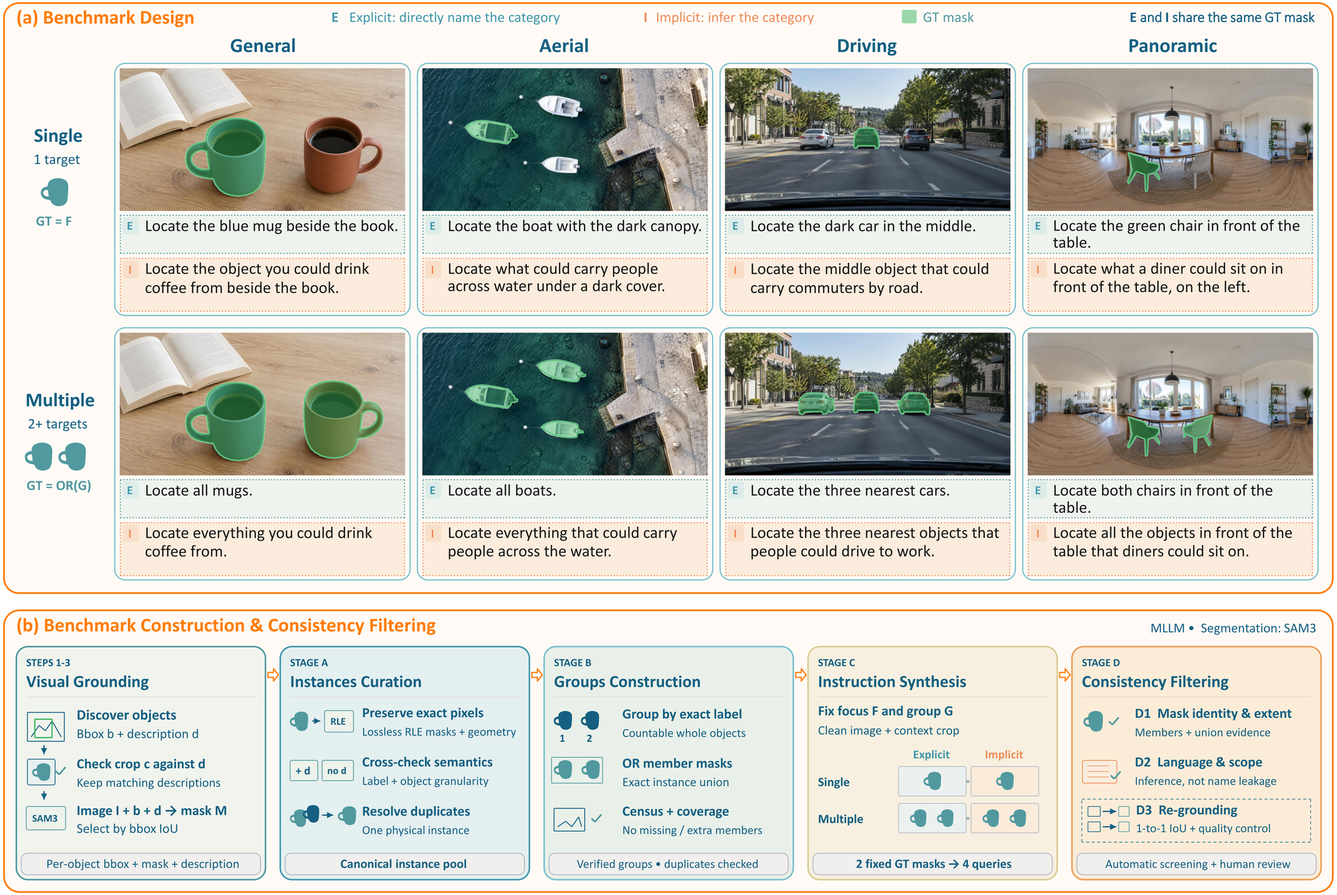
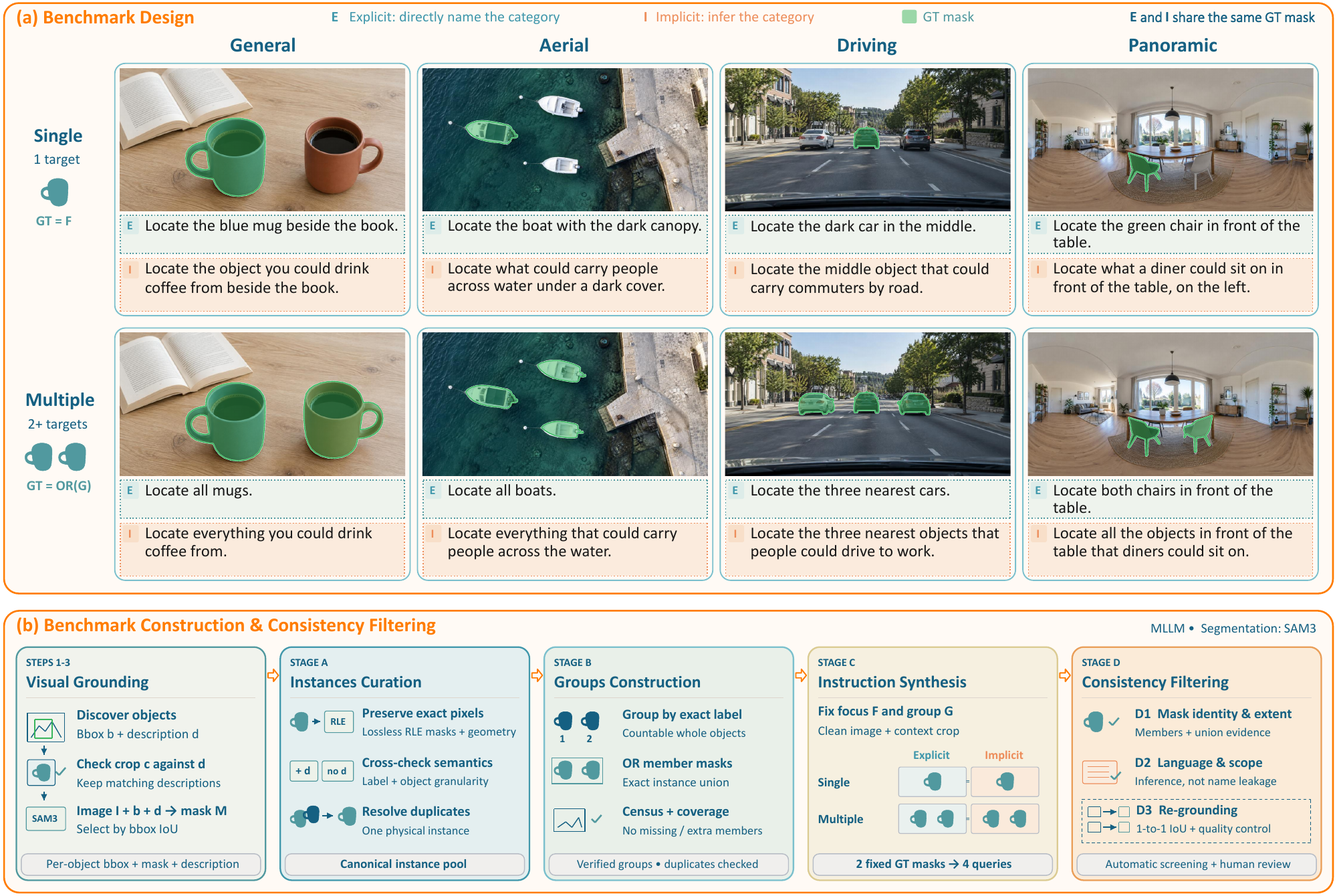
Update benchmark results and LensBench visuals

diff --git a/docs/index.html b/docs/index.html
@@ -200,7 +200,7 @@ a:focus-visible, button:focus-visible, summary:focus-visible { outline: 3px soli
 .figure-card + .figure-caption { padding-inline: 4px; }
 .enlarge { display: inline-block; margin-top: 10px; font: 600 12px var(--mono); color: var(--orange); }
 .enlarge:hover { text-decoration: underline; }
-.flow { list-style: none; margin: 28px 0 0; padding: 0; display: grid; grid-template-columns: repeat(3, 1fr); border: 2px solid var(--outline); border-radius: 22px; overflow: hidden; background: var(--white); }
+.flow { list-style: none; margin: 28px 0 0; padding: 0; display: grid; grid-template-columns: repeat(4, 1fr); border: 2px solid var(--outline); border-radius: 22px; overflow: hidden; background: var(--white); }
 .flow li { padding: 25px; border-left: 1px solid var(--line); }
 .flow li:first-child { border-left: 0; }
 .flow .num { font: 600 11px var(--mono); color: var(--orange); }
@@ -243,6 +243,7 @@ a:focus-visible, button:focus-visible, summary:focus-visible { outline: 3px soli
 .big-score b { display: block; font: 400 64px/1 var(--display); color: var(--orange); letter-spacing: -2px; font-variant-numeric: tabular-nums; }
 .big-score span { font: 600 10px var(--mono); letter-spacing: 1px; text-transform: uppercase; color: var(--muted); }
 .result-head > p { font-size: 15px; }
+.result-head.two { grid-template-columns: 1fr 1.2fr; }
 .result-body { display: grid; grid-template-columns: 1fr 1fr; gap: 22px; margin-top: 26px; }
 .panel-box { border: 1px solid var(--line); border-radius: 18px; padding: 20px; background: #fcfdfd; }
 .panel-box h4 { font-size: 17px; font-weight: 500; display: flex; gap: 10px; align-items: center; }
@@ -337,7 +338,7 @@ footer { border-top: 2px solid #1e34501a; padding-block: 48px 56px; }
   .filters, .tabs.domain-tabs { grid-template-columns: minmax(0, 1fr); }
   .filters .chip[data-filter="all"] { grid-row: auto; justify-self: start; }
   .result-card { padding: 20px; }
-  .result-head { grid-template-columns: 1fr; }
+  .result-head, .result-head.two { grid-template-columns: 1fr; }
   .big-score { text-align: left; }
 }
 @media (prefers-reduced-motion: reduce) {
@@ -398,7 +399,7 @@ footer { border-top: 2px solid #1e34501a; padding-block: 48px 56px; }
 
   <div class="metrics" aria-label="Key results">
     <div class="metric"><div class="metric-value">81.4</div><div class="metric-name">Referring Expression Segmentation</div><div class="metric-note">mean cIoU, 8 RefCOCO-family splits</div></div>
-    <div class="metric"><div class="metric-value">94.6</div><div class="metric-name">Referring Expression Comprehension</div><div class="metric-note">Pres@0.5, RefCOCO val</div></div>
+    <div class="metric"><div class="metric-value">94.6</div><div class="metric-name">Referring Expression Comprehension</div><div class="metric-note">Prec@0.5, RefCOCO val</div></div>
     <div class="metric"><div class="metric-value">68.0</div><div class="metric-name">ReasonSeg test</div><div class="metric-note">gIoU</div></div>
     <div class="metric"><div class="metric-value">+6.8</div><div class="metric-name">CountQA over backbone</div><div class="metric-note">50.6 vs. 43.8 for Qwen3.5-4B</div></div>
     <div class="metric"><div class="metric-value">4,800</div><div class="metric-name">LensBench instruction-level samples</div><div class="metric-note">1,200 paired units across 4 domains</div></div>
@@ -526,6 +527,11 @@ footer { border-top: 2px solid #1e34501a; padding-block: 48px 56px; }
         <h4>Lightweight decoder</h4>
         <p>Patch-wise compatibility scores between the latent and the grid are reassembled and upsampled into a mask.</p>
       </li>
+      <li>
+        <span class="num">04</span>
+        <h4>Thinking with visual latents</h4>
+        <p>Mask tokens placed inside the reasoning trace decode to masks for the regions it discusses. Grounded reasoning traces supervise these intermediate regions.</p>
+      </li>
     </ol>
     <div class="training">
       <div>
@@ -567,14 +573,27 @@ footer { border-top: 2px solid #1e34501a; padding-block: 48px 56px; }
       <p class="figure-caption">(a) After image and region screening, an MLLM generates question–answer pairs with multiple-choice or numeric answers. (b) Rule-based filters remove flawed questions, options are shuffled, and an independent checker verifies the answers.</p>
     </div>
     <div id="data-lens" role="tabpanel" hidden>
-      <figure class="figure-card"><img data-lazy="assets/figures/lensbench_data_pipeline.png" width="2000" height="1339" alt="LensBench design across four domains and its construction pipeline."></figure>
+      <figure class="figure-card"><img data-lazy="assets/figures/lensbench_data_pipeline.png" width="2000" height="1340" alt="LensBench design across four domains and its construction pipeline."></figure>
       <div class="facts">
         <div class="fact"><b>4</b><span>domains: General, Aerial, Driving, Panoramic</span></div>
         <div class="fact"><b>300</b><span>evaluation units per domain; 1,200 paired units in total</span></div>
         <div class="fact"><b>2 × 2</b><span>Single/Multiple targets × Explicit/Implicit instructions</span></div>
         <div class="fact"><b>4,800</b><span>instruction-level evaluation samples in total</span></div>
       </div>
-      <div class="actions"><a class="button" href="https://huggingface.co/datasets/SeerRay-Lab/LensBench">LensBench on Hugging Face ↗</a></div>
+      <p>LensBench contains 1,200 human-reviewed paired units and 4,800 instructions across general, aerial, driving, and panoramic imagery (300 units per domain). Each unit combines single/multiple targets with explicit/implicit wording. The two wordings share the same target mask; multiple targets use the union mask and its enclosing box. Targets and masks are fixed before instruction synthesis, followed by automated consistency checks and human review of each complete unit.</p>
+      <p>Xiaomi-Lens-0 leads mask cIoU in aerial (57.1), driving (68.6), and panoramic (62.3) imagery, and leads both metrics on explicit instructions. Implicit instructions remain challenging: cIoU drops from 71.4 to 54.7, while box Prec@0.5 drops from 85.0 to 70.0. The gap is largest for multiple targets in panoramic scenes, where cIoU falls from 71.8 to 48.9 and box Prec@0.5 from 81.3 to 48.7.</p>
+      <details class="scores"><summary>LensBench detailed results</summary><p class="note">Marginal results pool single and multiple targets. Each cell reports mask cIoU / box Prec@0.5 (%, higher is better). Bold marks best; underline marks second best.</p><div class="table-wrap"><table><thead><tr><th class="method" rowspan="2">Method</th><th colspan="2">Explicit</th><th colspan="2">Implicit</th><th colspan="2">General</th><th colspan="2">Aerial</th><th colspan="2">Driving</th><th colspan="2">Panoramic</th></tr><tr><th>cIoU</th><th>Prec@0.5</th><th>cIoU</th><th>Prec@0.5</th><th>cIoU</th><th>Prec@0.5</th><th>cIoU</th><th>Prec@0.5</th><th>cIoU</th><th>Prec@0.5</th><th>cIoU</th><th>Prec@0.5</th></tr></thead><tbody><tr><td class="method">GPT-5.6-Sol</td><td>63.8</td><td>73.2</td><td><u>61.2</u></td><td><u>70.0</u></td><td><u>68.4</u></td><td>67.9</td><td>42.2</td><td>58.5</td><td><u>68.4</u></td><td><b>81.8</b></td><td>57.1</td><td><u>78.3</u></td></tr>
+<tr><td class="method">Gemini-3.6-Flash</td><td>61.4</td><td><u>74.5</u></td><td>61.0</td><td><b>70.3</b></td><td>63.6</td><td>65.8</td><td><u>50.1</u></td><td><u>62.5</u></td><td>66.8</td><td><u>81.0</u></td><td><u>60.8</u></td><td><b>80.3</b></td></tr>
+<tr><td class="method">MiMo-V2.5</td><td>51.4</td><td>52.2</td><td>47.4</td><td>46.8</td><td>54.2</td><td>45.2</td><td>32.6</td><td>38.6</td><td>50.5</td><td>52.8</td><td>45.4</td><td>61.4</td></tr>
+<tr><td class="method">Seed-2.1-Pro</td><td>62.1</td><td>70.2</td><td>55.9</td><td>64.5</td><td>60.6</td><td>56.7</td><td><u>50.1</u></td><td>58.5</td><td>66.8</td><td>77.4</td><td>59.9</td><td>76.7</td></tr>
+<tr><td class="method">Qwen3.8-Max</td><td><u>67.6</u></td><td>69.2</td><td><b>64.5</b></td><td>63.8</td><td><b>74.2</b></td><td><b>79.7</b></td><td>33.5</td><td><u>62.5</u></td><td>58.0</td><td>57.7</td><td><u>60.8</u></td><td>66.2</td></tr>
+<tr><td class="method">Kimi-K3</td><td>29.4</td><td>39.1</td><td>28.3</td><td>33.0</td><td>38.5</td><td>26.1</td><td>13.8</td><td>44.9</td><td>47.2</td><td>31.1</td><td>13.4</td><td>42.1</td></tr>
+<tr><td class="method">GLM-5.3-Flash</td><td>44.3</td><td>37.5</td><td>43.5</td><td>33.3</td><td>48.9</td><td>26.3</td><td>28.0</td><td>33.4</td><td>51.6</td><td>47.5</td><td>30.6</td><td>34.4</td></tr>
+<tr><td class="method">DeepSeek-V4-Flash-Vision-Exp</td><td>41.8</td><td>30.7</td><td>41.1</td><td>27.3</td><td>46.1</td><td>28.1</td><td>25.9</td><td>28.9</td><td>43.9</td><td>27.9</td><td>32.8</td><td>31.0</td></tr>
+<tr><td class="method">SAM 3</td><td>17.3</td><td>38.1</td><td>15.4</td><td>19.5</td><td>23.8</td><td>24.8</td><td>4.3</td><td>27.3</td><td>27.7</td><td>35.1</td><td>11.1</td><td>27.9</td></tr>
+<tr class="ours"><td class="method">Xiaomi-Lens-0<sub>4B</sub></td><td><b>71.4</b></td><td><b>85.0</b></td><td>54.7</td><td><u>70.0</u></td><td>63.9</td><td><u>79.1</u></td><td><b>57.1</b></td><td><b>79.6</b></td><td><b>68.6</b></td><td>79.4</td><td><b>62.3</b></td><td>72.1</td></tr></tbody></table></div></details>
+      <figure class="figure-card"><a href="assets/figures/lensbench_evaluation.png"><img data-lazy="assets/figures/lensbench_evaluation.png" width="2600" height="1335" alt="LensBench qualitative comparisons across four visual domains; red overlays show predicted and ground-truth regions."></a></figure><p class="figure-caption">Single and multiple targets under explicit and implicit instructions across four domains. Click the image for the full-resolution comparison.</p>
+            <div class="actions"><a class="button" href="https://huggingface.co/datasets/SeerRay-Lab/LensBench">LensBench on Hugging Face ↗</a></div>
     </div>
   </div>
 </section>
@@ -599,11 +618,11 @@ footer { border-top: 2px solid #1e34501a; padding-block: 48px 56px; }
     <div class="result-card" id="result-rec" role="tabpanel">
       <div class="result-head">
         <div><p class="eyebrow">01 · Referring Expression Comprehension</p><h3>RefCOCO / RefCOCO+ / RefCOCOg</h3></div>
-        <div class="big-score"><b>92.9</b><span>Xiaomi-Lens-0 · mean Pres@0.5 · 8 splits</span></div>
-        <p>Ranks first on seven of eight RefCOCO, RefCOCO+, and RefCOCOg splits.</p>
+        <div class="big-score"><b>92.9</b><span>Xiaomi-Lens-0 · mean Prec@0.5 · 8 splits</span></div>
+        <p>Ranks first on seven of eight RefCOCO, RefCOCO+, and RefCOCOg splits, 5.6 points above its Qwen3.5-4B backbone on average.</p>
       </div>
       <div class="result-body">
-        <div class="panel-box"><h4><span class="n">01</span>Score comparison</h4><p class="sub">mean Pres@0.5 · 8 splits · top models</p><ol class="bars"><li class="ours"><span class="name">Xiaomi-Lens-0<sub>4B</sub></span><span class="track"><span class="fill" style="width:100.0%"></span></span><span class="val">92.9</span></li><li><span class="name">Youtu-VL<sub>4B</sub></span><span class="track"><span class="fill" style="width:87.1%"></span></span><span class="val">91.8</span></li><li><span class="name">Florence-2</span><span class="track"><span class="fill" style="width:78.9%"></span></span><span class="val">91.1</span></li><li><span class="name">Qwen3-VL-Seg<sub>4B</sub></span><span class="track"><span class="fill" style="width:62.4%"></span></span><span class="val">89.7</span></li><li><span class="name">InternVL-3.5<sub>4B</sub></span><span class="track"><span class="fill" style="width:58.9%"></span></span><span class="val">89.4</span></li><li><span class="name">MLLMSeg<sub>InternVL2.5-4B</sub></span><span class="track"><span class="fill" style="width:44.8%"></span></span><span class="val">88.2</span></li></ol></div>
+        <div class="panel-box"><h4><span class="n">01</span>Score comparison</h4><p class="sub">mean Prec@0.5 · 8 splits · top models</p><ol class="bars"><li class="ours"><span class="name">Xiaomi-Lens-0<sub>4B</sub></span><span class="track"><span class="fill" style="width:100.0%"></span></span><span class="val">92.9</span></li><li><span class="name">Youtu-VL<sub>4B</sub></span><span class="track"><span class="fill" style="width:87.1%"></span></span><span class="val">91.8</span></li><li><span class="name">Florence-2</span><span class="track"><span class="fill" style="width:78.9%"></span></span><span class="val">91.1</span></li><li><span class="name">Qwen3-VL-Seg<sub>4B</sub></span><span class="track"><span class="fill" style="width:62.4%"></span></span><span class="val">89.7</span></li><li><span class="name">InternVL-3.5<sub>4B</sub></span><span class="track"><span class="fill" style="width:58.9%"></span></span><span class="val">89.4</span></li><li><span class="name">MLLMSeg<sub>InternVL2.5-4B</sub></span><span class="track"><span class="fill" style="width:44.8%"></span></span><span class="val">88.2</span></li></ol></div>
         <div class="panel-box"><h4><span class="n">02</span>Xiaomi-Lens-0 by split</h4><p class="sub">Orange marks a best score in the table</p><div class="split-grid"><div><span>RefCOCO Val</span><b class="best">94.6</b></div><div><span>RefCOCO TestA</span><b class="best">96.2</b></div><div><span>RefCOCO TestB</span><b class="best">92.3</b></div><div><span>RefCOCO+ Val</span><b class="best">92.1</b></div><div><span>RefCOCO+ TestA</span><b class="best">94.9</b></div><div><span>RefCOCO+ TestB</span><b class="best">88.5</b></div><div><span>RefCOCOg Val</span><b class="best">92.5</b></div><div><span>RefCOCOg Test</span><b class="">92.4</b></div></div></div>
       </div>
       <details class="scores"><summary>View detailed scores</summary>
@@ -707,12 +726,12 @@ footer { border-top: 2px solid #1e34501a; padding-block: 48px 56px; }
     <div class="result-card" id="result-multi" role="tabpanel" hidden>
       <div class="result-head">
         <div><p class="eyebrow">03 · Multi-Instance Grounding</p><h3>COCO 2017</h3></div>
-        <div class="big-score"><b>60.6</b><span>Xiaomi-Lens-0 · F1 · mean over IoU 0.50–0.95</span></div>
-        <p>Ties GroundingDINO for the highest mIoU F1 among the listed models.</p>
+        <div class="big-score"><b>63.9</b><span>Xiaomi-Lens-0 · F1 · mean over IoU 0.50–0.95</span></div>
+        <p>Highest mIoU F1 among the compared models, 0.9 points above GroundingPI.</p>
       </div>
       <div class="result-body">
-        <div class="panel-box"><h4><span class="n">01</span>Score comparison</h4><p class="sub">F1 · mean over IoU 0.50–0.95 · top models</p><ol class="bars"><li><span class="name">GroundingDINO</span><span class="track"><span class="fill" style="width:100.0%"></span></span><span class="val">60.6</span></li><li class="ours"><span class="name">Xiaomi-Lens-0<sub>4B</sub></span><span class="track"><span class="fill" style="width:100.0%"></span></span><span class="val">60.6</span></li><li><span class="name">LocateAnything Slow NTP</span><span class="track"><span class="fill" style="width:78.6%"></span></span><span class="val">59.4</span></li><li><span class="name">LocateAnything Hybrid</span><span class="track"><span class="fill" style="width:73.2%"></span></span><span class="val">59.1</span></li><li><span class="name">SenseNova-Vision</span><span class="track"><span class="fill" style="width:44.6%"></span></span><span class="val">57.5</span></li></ol></div>
-        <div class="panel-box"><h4><span class="n">02</span>Xiaomi-Lens-0 by split</h4><p class="sub">Orange marks a best score in the table</p><div class="split-grid"><div><span>IoU 0.50 Recall</span><b class="">77.5</b></div><div><span>IoU 0.50 Precision</span><b class="">79.3</b></div><div><span>IoU 0.50 F1</span><b class="">78.4</b></div><div><span>IoU 0.95 Recall</span><b class="">23.3</b></div><div><span>IoU 0.95 Precision</span><b class="">23.7</b></div><div><span>IoU 0.95 F1</span><b class="">23.5</b></div><div><span>mIoU Recall</span><b class="">60.0</b></div><div><span>mIoU Precision</span><b class="">61.2</b></div><div><span>mIoU F1</span><b class="">60.6</b></div></div></div>
+        <div class="panel-box"><h4><span class="n">01</span>Score comparison</h4><p class="sub">F1 · mean over IoU 0.50–0.95 · top models</p><ol class="bars"><li class="ours"><span class="name">Xiaomi-Lens-0<sub>4B</sub></span><span class="track"><span class="fill" style="width:100.0%"></span></span><span class="val">63.9</span></li><li><span class="name">GroundingPI</span><span class="track"><span class="fill" style="width:98.6%"></span></span><span class="val">63.0</span></li><li><span class="name">GroundingDINO</span><span class="track"><span class="fill" style="width:94.8%"></span></span><span class="val">60.6</span></li><li><span class="name">LocateAnything Slow NTP</span><span class="track"><span class="fill" style="width:93.0%"></span></span><span class="val">59.4</span></li><li><span class="name">LocateAnything Hybrid</span><span class="track"><span class="fill" style="width:92.5%"></span></span><span class="val">59.1</span></li></ol></div>
+        <div class="panel-box"><h4><span class="n">02</span>Xiaomi-Lens-0 by split</h4><p class="sub">Orange marks a best score in the table</p><div class="split-grid"><div><span>IoU 0.50 Recall</span><b>79.6</b></div><div><span>IoU 0.50 Precision</span><b>81.1</b></div><div><span>IoU 0.50 F1</span><b>80.4</b></div><div><span>IoU 0.95 Recall</span><b class="best">27.2</b></div><div><span>IoU 0.95 Precision</span><b>27.7</b></div><div><span>IoU 0.95 F1</span><b>27.4</b></div><div><span>mIoU Recall</span><b class="best">63.4</b></div><div><span>mIoU Precision</span><b>64.5</b></div><div><span>mIoU F1</span><b class="best">63.9</b></div></div></div>
       </div>
       <details class="scores"><summary>View detailed scores</summary>
         <p class="note"><b>Bold</b> marks the best score and <u>underline</u> the second best.</p>
@@ -726,24 +745,23 @@ footer { border-top: 2px solid #1e34501a; padding-block: 48px 56px; }
 </tr>
 <tr><th>Recall</th><th>Precision</th><th>F1</th><th>Recall</th><th>Precision</th><th>F1</th><th>Recall</th><th>Precision</th><th>F1</th></tr>
 </thead><tbody>
-<tr><td class="method">GroundingDINO</td><td class="second">79.6</td><td class="best">83.2</td><td class="best">81.4</td><td>24.7</td><td>28.1</td><td>26.3</td><td class="second">61.1</td><td>63.7</td><td class="best">60.6</td></tr>
+<tr><td class="method">GroundingDINO</td><td><u>79.6</u></td><td><b>83.2</b></td><td><b>81.4</b></td><td>24.7</td><td>28.1</td><td>26.3</td><td>61.1</td><td>63.7</td><td>60.6</td></tr>
 <tr><td class="method">Rex-Omni</td><td>69.9</td><td>81.0</td><td>75.0</td><td>17.9</td><td>21.7</td><td>19.7</td><td>53.9</td><td>59.4</td><td>56.3</td></tr>
 <tr><td class="method">LocateAnything Fast</td><td>66.2</td><td>73.3</td><td>69.6</td><td>24.7</td><td>26.9</td><td>25.8</td><td>50.9</td><td>59.3</td><td>53.1</td></tr>
-<tr><td class="method">LocateAnything Hybrid</td><td>74.7</td><td>80.8</td><td>77.6</td><td class="second">26.6</td><td class="second">28.7</td><td class="second">27.6</td><td>52.4</td><td class="best">65.2</td><td>59.1</td></tr>
-<tr><td class="method">LocateAnything Slow NTP</td><td>75.0</td><td class="second">81.9</td><td>78.3</td><td>25.0</td><td>27.2</td><td>26.0</td><td>54.7</td><td class="second">65.1</td><td class="second">59.4</td></tr>
+<tr><td class="method">LocateAnything Hybrid</td><td>74.7</td><td>80.8</td><td>77.6</td><td><u>26.6</u></td><td><u>28.7</u></td><td><u>27.6</u></td><td>52.4</td><td><b>65.2</b></td><td>59.1</td></tr>
+<tr><td class="method">LocateAnything Slow NTP</td><td>75.0</td><td><u>81.9</u></td><td>78.3</td><td>25.0</td><td>27.2</td><td>26.0</td><td>54.7</td><td><u>65.1</u></td><td>59.4</td></tr>
 <tr><td class="method">Qwen2.5-VL<sub>7B</sub></td><td>57.2</td><td>62.9</td><td>59.9</td><td>12.2</td><td>13.2</td><td>12.7</td><td>44.7</td><td>49.1</td><td>46.3</td></tr>
 <tr><td class="method">Qwen3-VL<sub>2B</sub></td><td>63.5</td><td>67.1</td><td>65.3</td><td>21.8</td><td>22.6</td><td>22.2</td><td>42.6</td><td>44.9</td><td>42.5</td></tr>
 <tr><td class="method">Qwen3-VL<sub>4B</sub></td><td>66.1</td><td>70.6</td><td>68.3</td><td>23.7</td><td>24.9</td><td>24.3</td><td>44.9</td><td>47.8</td><td>46.5</td></tr>
 <tr><td class="method">Qwen3-VL<sub>8B</sub></td><td>65.7</td><td>69.5</td><td>67.5</td><td>23.9</td><td>25.1</td><td>24.5</td><td>44.8</td><td>47.3</td><td>46.3</td></tr>
-<tr><td class="method">Qwen3.5<sub>4B</sub></td><td>65.9</td><td>67.8</td><td>66.8</td><td>22.9</td><td>23.7</td><td>23.3</td><td>48.4</td><td>45.7</td><td>47.6</td></tr>
-<tr><td class="method">Qwen3.5<sub>9B</sub></td><td>73.2</td><td>68.1</td><td>70.6</td><td>23.8</td><td>24.5</td><td>24.2</td><td>58.5</td><td>46.3</td><td>52.0</td></tr>
 <tr><td class="method">RynnBrain1.1</td><td>36.5</td><td>60.5</td><td>45.5</td><td>11.6</td><td>16.5</td><td>13.6</td><td>28.7</td><td>45.3</td><td>35.2</td></tr>
-<tr><td class="method">SenseNova-Vision</td><td>79.1</td><td>80.5</td><td>79.8</td><td class="best">27.2</td><td class="best">30.2</td><td class="best">28.6</td><td class="best">63.1</td><td>55.4</td><td>57.5</td></tr>
+<tr><td class="method">SenseNova-Vision</td><td>79.1</td><td>80.5</td><td>79.8</td><td><b>27.2</b></td><td><b>30.2</b></td><td><b>28.6</b></td><td>63.1</td><td>55.4</td><td>57.5</td></tr>
+<tr><td class="method">GroundingPI</td><td><b>81.4</b></td><td>80.9</td><td><u>81.2</u></td><td>22.9</td><td>22.8</td><td>22.8</td><td><u>63.2</u></td><td>62.8</td><td><u>63.0</u></td></tr>
 <tr><td class="method">MiMo-VL-SFT<sub>7B</sub></td><td>65.5</td><td>72.2</td><td>68.7</td><td>10.0</td><td>11.1</td><td>10.5</td><td>45.7</td><td>50.5</td><td>48.0</td></tr>
 <tr><td class="method">MiMo-VL-RL<sub>7B</sub></td><td>65.6</td><td>74.5</td><td>69.8</td><td>9.2</td><td>10.3</td><td>9.7</td><td>44.5</td><td>50.2</td><td>47.2</td></tr>
 <tr><td class="method">BAGEL</td><td>65.6</td><td>75.2</td><td>70.1</td><td>11.0</td><td>13.0</td><td>11.9</td><td>46.3</td><td>47.2</td><td>46.0</td></tr>
 <tr><td class="method">RynnBrain</td><td>21.3</td><td>49.9</td><td>29.8</td><td>4.9</td><td>10.9</td><td>6.7</td><td>15.5</td><td>35.4</td><td>21.5</td></tr>
-<tr class="ours"><td class="method">Xiaomi-Lens-0<sub>4B</sub></td><td>77.5</td><td>79.3</td><td>78.4</td><td>23.3</td><td>23.7</td><td>23.5</td><td>60.0</td><td>61.2</td><td class="best">60.6</td></tr>
+<tr class="ours"><td class="method">Xiaomi-Lens-0<sub>4B</sub></td><td><u>79.6</u></td><td>81.1</td><td>80.4</td><td><b>27.2</b></td><td>27.7</td><td>27.4</td><td><b>63.4</b></td><td>64.5</td><td><b>63.9</b></td></tr>
 </tbody></table></div>
 
       </details>
@@ -854,9 +872,27 @@ footer { border-top: 2px solid #1e34501a; padding-block: 48px 56px; }
       </details>
     </div>
     <figure class="figure-card" style="margin-top:28px">
-      <img src="assets/figures/radar_comparison.png" width="2000" height="492" loading="lazy" alt="Radar charts comparing Xiaomi-Lens-0 with baselines on box grounding, referring segmentation, and perception.">
+      <img src="assets/figures/radar_comparison.png" width="3000" height="570" loading="lazy" alt="Radar charts comparing Xiaomi-Lens-0 with baselines on box grounding, referring segmentation, perception, and LensBench.">
     </figure>
-    <p class="figure-caption">At a glance: box grounding (left), referring segmentation (middle), and perception (right).</p>
+    <p class="figure-caption">At a glance, from left to right: box grounding F1, referring segmentation cIoU, fine-grained perception accuracy, and LensBench cIoU.</p>
+    <div class="result-card" id="ablation" style="margin-top:28px">
+      <div class="result-head two">
+        <div><p class="eyebrow">Ablations</p><h3>What mask supervision and grounded reasoning add</h3></div>
+        <p>We ablate mask supervision and grounded reasoning data, with the original backbone as a reference. Scores are validation-set Prec@0.5 for REC, cIoU for RES, and answer accuracy for perception.</p>
+      </div>
+      <div class="result-body" style="grid-template-columns:minmax(0,1fr)">
+        <div class="panel-box"><h4><span class="n">01</span>Mask supervision</h4><p class="sub">BBox-only disables the mask loss</p><div class="table-wrap"><table><thead><tr><th class="method">Variant</th><th>RefCOCO</th><th>RefCOCO+</th><th>RefCOCOg</th><th>MME-RW-en</th><th>MME-RW-cn</th><th>CV-B</th></tr></thead><tbody>
+<tr><td class="method">Qwen3.5<sub>4B</sub></td><td>90.4</td><td>84.8</td><td>88.0</td><td>66.5</td><td>60.3</td><td>85.4</td></tr>
+<tr><td class="method">BBox-only</td><td>93.5</td><td>89.7</td><td>90.2</td><td>68.8</td><td>66.1</td><td>87.9</td></tr>
+<tr class="ours"><td class="method">BBox + Mask</td><td><b>94.6</b></td><td><b>92.1</b></td><td><b>92.5</b></td><td><b>69.7</b></td><td><b>67.5</b></td><td><b>88.1</b></td></tr>
+</tbody></table></div><p class="note">Adding the mask loss raises all six scores. The REC gain is largest on RefCOCO+ (+2.4), where location words are excluded and appearance must separate the target from its neighbors.</p></div>
+        <div class="panel-box"><h4><span class="n">02</span>Grounded reasoning traces</h4><p class="sub">Grounding-only omits the reasoning data</p><div class="table-wrap"><table><thead><tr><th class="method">Variant</th><th>REC<br>RefCOCO</th><th>REC<br>RefCOCO+</th><th>REC<br>RefCOCOg</th><th>RES<br>RefCOCO</th><th>RES<br>RefCOCO+</th><th>RES<br>RefCOCOg</th></tr></thead><tbody>
+<tr><td class="method">Qwen3.5<sub>4B</sub></td><td>90.4</td><td>84.8</td><td>88.0</td><td>—</td><td>—</td><td>—</td></tr>
+<tr><td class="method">Grounding-only</td><td>94.5</td><td>91.5</td><td>92.0</td><td>82.7</td><td>79.1</td><td>80.6</td></tr>
+<tr class="ours"><td class="method">+ Reasoning</td><td><b>94.6</b></td><td><b>92.1</b></td><td><b>92.5</b></td><td><b>83.4</b></td><td><b>79.9</b></td><td><b>81.1</b></td></tr>
+</tbody></table></div><p class="note">Grounding data drive most of the referring gain. Supervising intermediate regions in the reasoning trace adds 0.5–0.8 cIoU on every RES split, mainly sharpening final masks.</p></div>
+      </div>
+    </div>
   </div>
 </section>
 
@@ -896,7 +932,6 @@ footer { border-top: 2px solid #1e34501a; padding-block: 48px 56px; }
       <span><a href="https://github.com/SeerRay-Lab/Xiaomi-Lens-0">Code</a> · <a href="https://huggingface.co/SeerRay-Lab/Xiaomi-Lens-0">Model weights</a> · <a href="https://huggingface.co/datasets/SeerRay-Lab/LensBench">LensBench</a> · Built on <a href="https://github.com/QwenLM">Qwen3.5</a>.</span>
     </div>
   </div>
-  <p>Fonts and demonstration media retain their respective licenses. <a href="https://github.com/SeerRay-Lab/Xiaomi-Lens-0/blob/main/THIRD_PARTY_NOTICES.md">Third-party notices</a>.</p>
 </footer>
 
 <script>

diff --git a/README.md b/README.md
@@ -12,7 +12,7 @@
 <p>English | <a href="README_CN.md">简体中文</a></p>
 </div>
 
-Xiaomi-Lens-0 is a 4B multimodal large language model that learns from pixel-level supervision through a shared visual backbone. Starting from Qwen3.5-4B, it decodes each generated `<|mask|>` token into a mask with a lightweight decoder, so the same model that answers in text can point at the regions it refers to, in a final answer or in the middle of its reasoning.
+Xiaomi-Lens-0 is a 4B multimodal large language model that learns from pixel-level supervision through a shared visual backbone. Starting from Qwen3.5-4B, it decodes each generated `<|mask|>` token into a mask with a lightweight decoder, so the same model that answers in text can point at the regions it refers to, in a final answer or in the middle of its reasoning. It improves referring comprehension over Qwen3.5-4B by 5.6 points on average across eight RefCOCO-family splits and improves scores on all eight fine-grained perception benchmarks.
 
 <p align="center"><a href="https://seerray-lab.github.io/Xiaomi-Lens-0/#video"><img src="docs/assets/video/overview_thumb.jpg" width="100%" alt="Xiaomi-Lens-0 overview video: play on the project page"></a></p>
 
@@ -28,9 +28,9 @@ Xiaomi-Lens-0 is a 4B multimodal large language model that learns from pixel-lev
 
 ## ✨ What it does
 
-1. **Referring Expression Comprehension**: finds the object a phrase describes and returns its bounding box. First on seven of eight RefCOCO, RefCOCO+, and RefCOCOg splits.
+1. **Referring Expression Comprehension**: finds the object a phrase describes and returns its bounding box. First on seven of eight RefCOCO, RefCOCO+, and RefCOCOg splits, 5.6 points above its Qwen3.5-4B backbone on average.
 2. **Referring Expression Segmentation**: returns a pixel mask for the referred object. 81.4% mean cIoU across the eight splits, leading the compared models on every split.
-3. **Multi-Instance Grounding**: lists every instance of a category, each with its own box and mask. 60.6 mean F1 on COCO 2017, tied with GroundingDINO for the highest listed score.
+3. **Multi-Instance Grounding**: lists every instance of a category, each with its own box and mask. 63.9 mean F1 on COCO 2017, highest among the compared models and 0.9 points above GroundingPI.
 4. **Reasoning Segmentation**: resolves functional and implicit requests after a short reasoning trace. Best on all four ReasonSeg scores.
 5. **Embodied Referring**: picks the object a person asks to be handed in cluttered scenes. Best on all four RoboRefIt scores.
 6. **Fine-Grained Perception**: thinks with visual latents, grounding each region it refers to while counting or answering high-resolution questions. Improves over its Qwen3.5-4B backbone on all eight perception benchmarks, including +6.8 points on CountQA.
@@ -40,6 +40,8 @@ We also release **[LensBench](https://huggingface.co/datasets/SeerRay-Lab/LensBe
 ## 🧠 Method
 
 Each generated `<|mask|>` token has a contextual state, or visual latent, that represents a target region given the image, instruction, and preceding response. A lightweight decoder combines this state with a single feature grid from the vision encoder before spatial merging to predict a mask. The model needs no separate segmentation encoder or multi-scale feature fusion. Joint language and mask training supervises the shared representation used for both spatial predictions and textual answers.
+
+The same decoder supports **thinking with visual latents**: `<|mask|>` tokens placed inside the reasoning trace decode to masks for the regions the trace discusses, such as each instance being counted. Grounded reasoning traces supervise these intermediate regions. Mask decoding is an output branch, so no crops or region features are fed back to the language model.
 
 <p align="center"><img src="docs/assets/figures/architecture.png" width="100%" alt="Xiaomi-Lens-0 architecture"></p>
 
@@ -66,7 +68,7 @@ All scores are percentages; higher is better. **Bold** marks the best score and 
 
 <p align="center"><img src="docs/assets/figures/radar_comparison.png" width="100%" alt="Radar comparison"></p>
 
-### 1. Referring Expression Comprehension (Pres@0.5)
+### 1. Referring Expression Comprehension (Prec@0.5)
 
 | Method | RefCOCO<br>Val | RefCOCO<br>TestA | RefCOCO<br>TestB | RefCOCO+<br>Val | RefCOCO+<br>TestA | RefCOCO+<br>TestB | RefCOCOg<br>Val | RefCOCOg<br>Test |
 |:--|:-:|:-:|:-:|:-:|:-:|:-:|:-:|:-:|
@@ -110,24 +112,23 @@ Recall, precision, and F1 at IoU 0.50 and 0.95; the mIoU group averages each met
 
 | Method | IoU 0.50<br>Recall | IoU 0.50<br>Precision | IoU 0.50<br>F1 | IoU 0.95<br>Recall | IoU 0.95<br>Precision | IoU 0.95<br>F1 | mIoU<br>Recall | mIoU<br>Precision | mIoU<br>F1 |
 |:--|:-:|:-:|:-:|:-:|:-:|:-:|:-:|:-:|:-:|
-| GroundingDINO | <u>79.6</u> | **83.2** | **81.4** | 24.7 | 28.1 | 26.3 | <u>61.1</u> | 63.7 | **60.6** |
+| GroundingDINO | <u>79.6</u> | **83.2** | **81.4** | 24.7 | 28.1 | 26.3 | 61.1 | 63.7 | 60.6 |
 | Rex-Omni | 69.9 | 81.0 | 75.0 | 17.9 | 21.7 | 19.7 | 53.9 | 59.4 | 56.3 |
 | LocateAnything Fast | 66.2 | 73.3 | 69.6 | 24.7 | 26.9 | 25.8 | 50.9 | 59.3 | 53.1 |
 | LocateAnything Hybrid | 74.7 | 80.8 | 77.6 | <u>26.6</u> | <u>28.7</u> | <u>27.6</u> | 52.4 | **65.2** | 59.1 |
-| LocateAnything Slow NTP | 75.0 | <u>81.9</u> | 78.3 | 25.0 | 27.2 | 26.0 | 54.7 | <u>65.1</u> | <u>59.4</u> |
+| LocateAnything Slow NTP | 75.0 | <u>81.9</u> | 78.3 | 25.0 | 27.2 | 26.0 | 54.7 | <u>65.1</u> | 59.4 |
 | Qwen2.5-VL<sub>7B</sub> | 57.2 | 62.9 | 59.9 | 12.2 | 13.2 | 12.7 | 44.7 | 49.1 | 46.3 |
 | Qwen3-VL<sub>2B</sub> | 63.5 | 67.1 | 65.3 | 21.8 | 22.6 | 22.2 | 42.6 | 44.9 | 42.5 |
 | Qwen3-VL<sub>4B</sub> | 66.1 | 70.6 | 68.3 | 23.7 | 24.9 | 24.3 | 44.9 | 47.8 | 46.5 |
 | Qwen3-VL<sub>8B</sub> | 65.7 | 69.5 | 67.5 | 23.9 | 25.1 | 24.5 | 44.8 | 47.3 | 46.3 |
-| Qwen3.5<sub>4B</sub> | 65.9 | 67.8 | 66.8 | 22.9 | 23.7 | 23.3 | 48.4 | 45.7 | 47.6 |
-| Qwen3.5<sub>9B</sub> | 73.2 | 68.1 | 70.6 | 23.8 | 24.5 | 24.2 | 58.5 | 46.3 | 52.0 |
 | RynnBrain1.1 | 36.5 | 60.5 | 45.5 | 11.6 | 16.5 | 13.6 | 28.7 | 45.3 | 35.2 |
-| SenseNova-Vision | 79.1 | 80.5 | 79.8 | **27.2** | **30.2** | **28.6** | **63.1** | 55.4 | 57.5 |
+| SenseNova-Vision | 79.1 | 80.5 | 79.8 | **27.2** | **30.2** | **28.6** | 63.1 | 55.4 | 57.5 |
+| GroundingPI | **81.4** | 80.9 | <u>81.2</u> | 22.9 | 22.8 | 22.8 | <u>63.2</u> | 62.8 | <u>63.0</u> |
 | MiMo-VL-SFT<sub>7B</sub> | 65.5 | 72.2 | 68.7 | 10.0 | 11.1 | 10.5 | 45.7 | 50.5 | 48.0 |
 | MiMo-VL-RL<sub>7B</sub> | 65.6 | 74.5 | 69.8 | 9.2 | 10.3 | 9.7 | 44.5 | 50.2 | 47.2 |
 | BAGEL | 65.6 | 75.2 | 70.1 | 11.0 | 13.0 | 11.9 | 46.3 | 47.2 | 46.0 |
 | RynnBrain | 21.3 | 49.9 | 29.8 | 4.9 | 10.9 | 6.7 | 15.5 | 35.4 | 21.5 |
-| **Xiaomi-Lens-0<sub>4B</sub>** | 77.5 | 79.3 | 78.4 | 23.3 | 23.7 | 23.5 | 60.0 | 61.2 | **60.6** |
+| **Xiaomi-Lens-0<sub>4B</sub>** | <u>79.6</u> | 81.1 | 80.4 | **27.2** | 27.7 | 27.4 | **63.4** | 64.5 | **63.9** |
 
 ### 4. Reasoning Segmentation (ReasonSeg, gIoU / cIoU)
 
@@ -168,6 +169,56 @@ Recall, precision, and F1 at IoU 0.50 and 0.95; the mIoU group averages each met
 | **Xiaomi-Lens-0<sub>4B</sub>** | **69.7** | **67.5** | **88.1** | **87.4** | **82.5** | **80.6** | **50.6** | **84.4** |
 
 Box-grounding F1 on the RefCOCO family is on the [project page](https://seerray-lab.github.io/Xiaomi-Lens-0/#results).
+
+### 7. LensBench
+
+LensBench contains 1,200 human-reviewed paired units and 4,800 instructions across general, aerial, driving, and panoramic imagery (300 units per domain). Each unit combines single/multiple targets with explicit/implicit wording. The two wordings share the same target mask; multiple targets use the union mask and its enclosing box. Targets and masks are fixed before instruction synthesis, followed by automated consistency checks and human review of each complete unit.
+
+Xiaomi-Lens-0 leads mask cIoU in aerial (57.1), driving (68.6), and panoramic (62.3) imagery, and leads both metrics on explicit instructions. Implicit instructions remain challenging: cIoU drops from 71.4 to 54.7, while box Prec@0.5 drops from 85.0 to 70.0. The gap is largest for multiple targets in panoramic scenes, where cIoU falls from 71.8 to 48.9 and box Prec@0.5 from 81.3 to 48.7.
+
+Marginal results pool single and multiple targets. Each cell reports mask cIoU / box Prec@0.5 (%, higher is better).
+
+| Method | Explicit | Implicit | General | Aerial | Driving | Panoramic |
+|:--| :-: | :-: | :-: | :-: | :-: | :-: |
+| GPT-5.6-Sol | 63.8 / 73.2 | <u>61.2</u> / <u>70.0</u> | <u>68.4</u> / 67.9 | 42.2 / 58.5 | <u>68.4</u> / **81.8** | 57.1 / <u>78.3</u> |
+| Gemini-3.6-Flash | 61.4 / <u>74.5</u> | 61.0 / **70.3** | 63.6 / 65.8 | <u>50.1</u> / <u>62.5</u> | 66.8 / <u>81.0</u> | <u>60.8</u> / **80.3** |
+| MiMo-V2.5 | 51.4 / 52.2 | 47.4 / 46.8 | 54.2 / 45.2 | 32.6 / 38.6 | 50.5 / 52.8 | 45.4 / 61.4 |
+| Seed-2.1-Pro | 62.1 / 70.2 | 55.9 / 64.5 | 60.6 / 56.7 | <u>50.1</u> / 58.5 | 66.8 / 77.4 | 59.9 / 76.7 |
+| Qwen3.8-Max | <u>67.6</u> / 69.2 | **64.5** / 63.8 | **74.2** / **79.7** | 33.5 / <u>62.5</u> | 58.0 / 57.7 | <u>60.8</u> / 66.2 |
+| Kimi-K3 | 29.4 / 39.1 | 28.3 / 33.0 | 38.5 / 26.1 | 13.8 / 44.9 | 47.2 / 31.1 | 13.4 / 42.1 |
+| GLM-5.3-Flash | 44.3 / 37.5 | 43.5 / 33.3 | 48.9 / 26.3 | 28.0 / 33.4 | 51.6 / 47.5 | 30.6 / 34.4 |
+| DeepSeek-V4-Flash-Vision-Exp | 41.8 / 30.7 | 41.1 / 27.3 | 46.1 / 28.1 | 25.9 / 28.9 | 43.9 / 27.9 | 32.8 / 31.0 |
+| SAM 3 | 17.3 / 38.1 | 15.4 / 19.5 | 23.8 / 24.8 | 4.3 / 27.3 | 27.7 / 35.1 | 11.1 / 27.9 |
+| **Xiaomi-Lens-0<sub>4B</sub>** | **71.4** / **85.0** | 54.7 / <u>70.0</u> | 63.9 / <u>79.1</u> | **57.1** / **79.6** | **68.6** / 79.4 | **62.3** / 72.1 |
+
+<p align="center"><img src="docs/assets/figures/lensbench_data_pipeline.png" width="100%" alt="LensBench design and construction pipeline"></p>
+
+<details>
+<summary>LensBench qualitative comparisons</summary>
+
+<p align="center"><a href="docs/assets/figures/lensbench_evaluation.png"><img src="docs/assets/figures/lensbench_evaluation.png" width="100%" alt="LensBench predictions across four domains, compared with ground-truth masks"></a></p>
+
+</details>
+
+### 8. Ablations
+
+We ablate mask supervision and grounded reasoning data, with the original backbone as a reference. Scores are validation-set Prec@0.5 for REC, cIoU for RES, and answer accuracy for perception.
+
+**Mask supervision.** BBox-only disables the mask loss. Adding it raises all six scores; the REC gain is largest on RefCOCO+ (+2.4), where location words are excluded and appearance must separate the target from its neighbors.
+
+| Variant | REC<br>RefCOCO | REC<br>RefCOCO+ | REC<br>RefCOCOg | MME-RW-en | MME-RW-cn | CV-B |
+|:--|:-:|:-:|:-:|:-:|:-:|:-:|
+| Qwen3.5<sub>4B</sub> | 90.4 | 84.8 | 88.0 | 66.5 | 60.3 | 85.4 |
+| BBox-only | 93.5 | 89.7 | 90.2 | 68.8 | 66.1 | 87.9 |
+| **BBox + Mask** | **94.6** | **92.1** | **92.5** | **69.7** | **67.5** | **88.1** |
+
+**Grounded reasoning traces.** Grounding-only omits the reasoning data. Grounding data drive most of the referring gain, and supervising intermediate regions adds 0.5–0.8 cIoU on every RES split.
+
+| Variant | REC<br>RefCOCO | REC<br>RefCOCO+ | REC<br>RefCOCOg | RES<br>RefCOCO | RES<br>RefCOCO+ | RES<br>RefCOCOg |
+|:--|:-:|:-:|:-:|:-:|:-:|:-:|
+| Qwen3.5<sub>4B</sub> | 90.4 | 84.8 | 88.0 | — | — | — |
+| Grounding-only | 94.5 | 91.5 | 92.0 | 82.7 | 79.1 | 80.6 |
+| **+ Reasoning** | **94.6** | **92.1** | **92.5** | **83.4** | **79.9** | **81.1** |
 
 ## 🚀 Quick Start
 
@@ -258,7 +309,7 @@ The client sends the image path to the mask server, so it must run on the same m
 
 ### LensBench
 
-The planned LensBench release is on [Hugging Face Datasets](https://huggingface.co/datasets/SeerRay-Lab/LensBench). Download it with:
+LensBench is available on [Hugging Face Datasets](https://huggingface.co/datasets/SeerRay-Lab/LensBench). Download it with:
 
 ```bash
 hf download SeerRay-Lab/LensBench --repo-type dataset --local-dir LensBench

diff --git a/AGENTS.md b/AGENTS.md
@@ -1,0 +1,43 @@
+# Repository Guidelines
+
+## Project Overview
+
+Xiaomi-Lens-0 extends Qwen3.5 with mask-token segmentation. This repository contains the inference package, usage examples, documentation, and project homepage.
+
+## Documentation & Presentation
+
+Write clear, concise, public-facing documentation using repository-relative paths and reproducible commands. Keep AGENTS.md focused on actionable project guidance, with direct, affirmative language and comment-free Markdown.
+
+Use these projects as presentation references:
+
+- [Xiaomi-OCR-0](https://github.com/SeerRay-Lab/Xiaomi-OCR-0): model introduction, capabilities, setup, demos, performance tables, and citation.
+- [DareBench](https://github.com/SeerRay-Lab/DareBench): title, tagline, navigation, release news, overview visuals, benchmark results, and project links.
+
+Make the project identity, core capabilities, visual examples, report, model, demo, evaluation results, quick start, and citation easy to find. Use verified project content and working links. Keep the GitHub README and standalone homepage aligned.
+
+## Project Structure
+
+- `README.md` and `README_CN.md`: project introduction and usage documentation.
+- `docs/`: project homepage and visual assets.
+- `src/xiaomi_lens/model/`: Qwen3.5 model integration and `PixelMaskDecoder`. `modeling_xiaomi_lens.py` defines `XiaomiLensQwen3_5ForConditionalGeneration`.
+- `src/xiaomi_lens/integrations/vllm/`: text and pooling-mask serving, registered through `pyproject.toml` entry points.
+- `infer.py`: Hugging Face inference CLI and two-phase decoding shared with serving.
+- `tools/`: scripts for rendering homepage assets.
+
+Use `XiaomiLensQwen3_5ForConditionalGeneration` as the checkpoint architecture and vLLM registration name. Keep `src/` focused on inference.
+
+## Development Commands
+
+- `pip install -e .`: install the inference package.
+- `pip install -e ".[vllm]"`: install with serving dependencies.
+- `python infer.py --help`: inspect inference arguments.
+
+## Coding & Validation
+
+Match the existing Python style: four-space indentation, `snake_case` functions and modules, and descriptive class names. Keep changes focused and follow directory-specific project guidance.
+
+Validate changed behavior with relevant checks. Use pytest and `test_*.py` naming for Python tests. Inspect rendered pages and assets after visual changes.
+
+## Commits & Pull Requests
+
+Keep commits focused and use imperative subjects. Pull requests should describe the change, link relevant issues, and summarize validation. Include screenshots or page references for visual changes.
